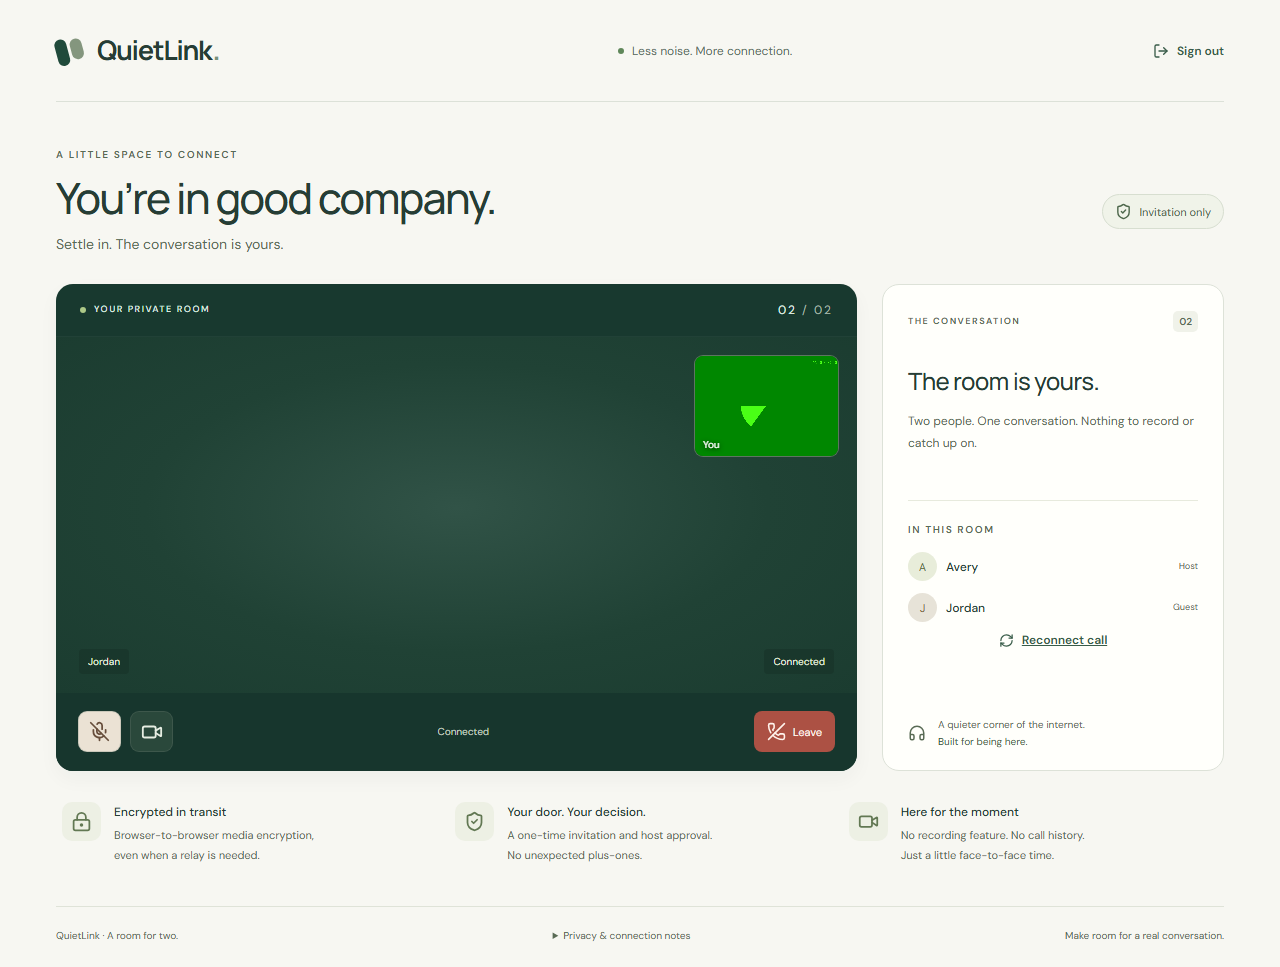
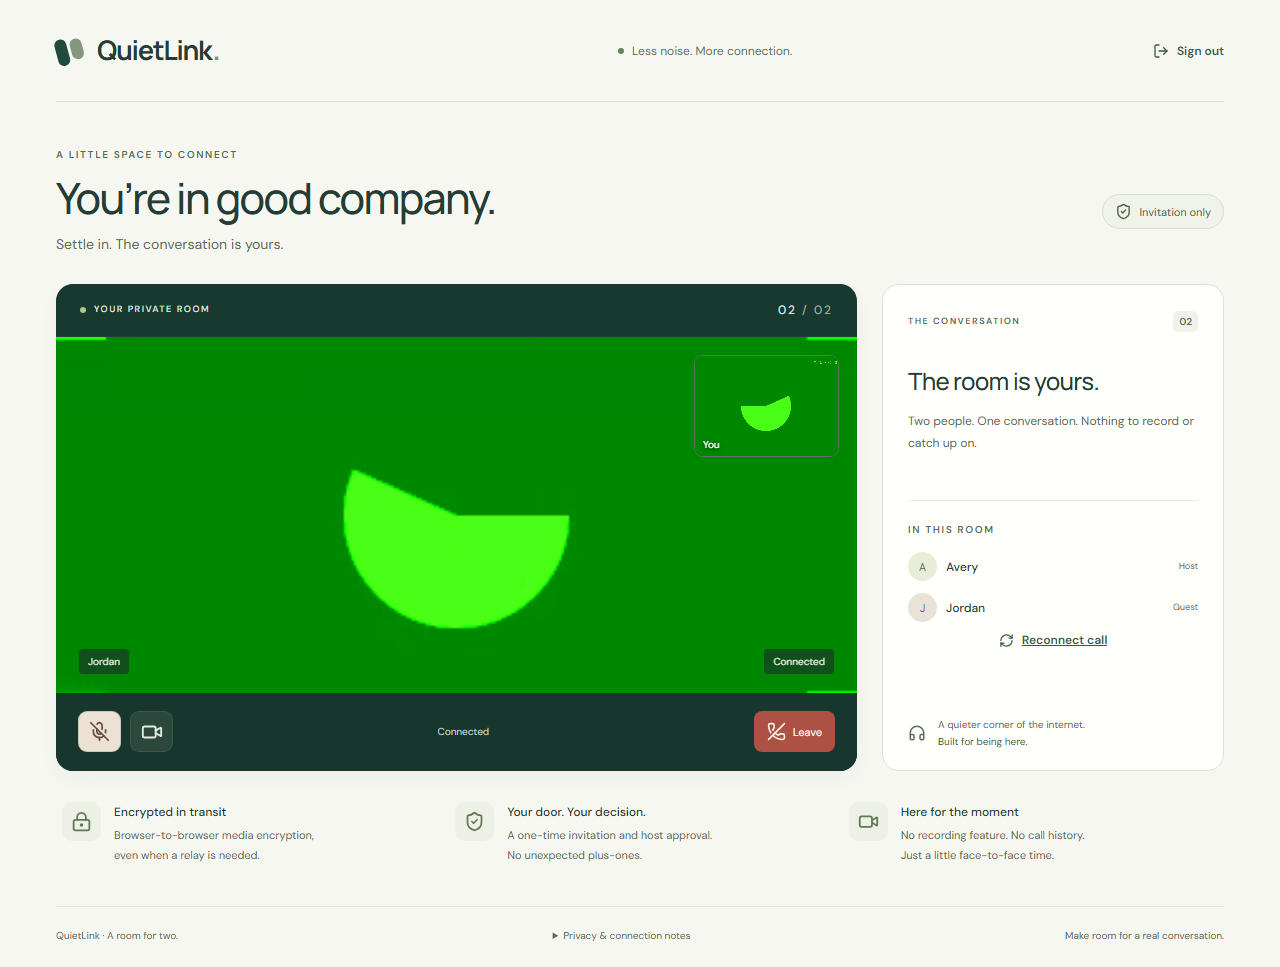
fix: make peer initialization explicit for type checking

Changed region(s): [[0.0312, 0.3413, 0.6875, 0.7135]]

diff --git a/web/src/useCall.ts b/web/src/useCall.ts
@@ -97,7 +97,7 @@ export function useCall(
       } else if (message.epoch !== epoch) {
         return;
       } else if (message.type === "ready" && room.role === "host" && !pc) {
-        const current = create();
+        const current = (pc = create());
         const offer = await current.createOffer();
         if (pc !== current) return;
         await current.setLocalDescription(offer);
